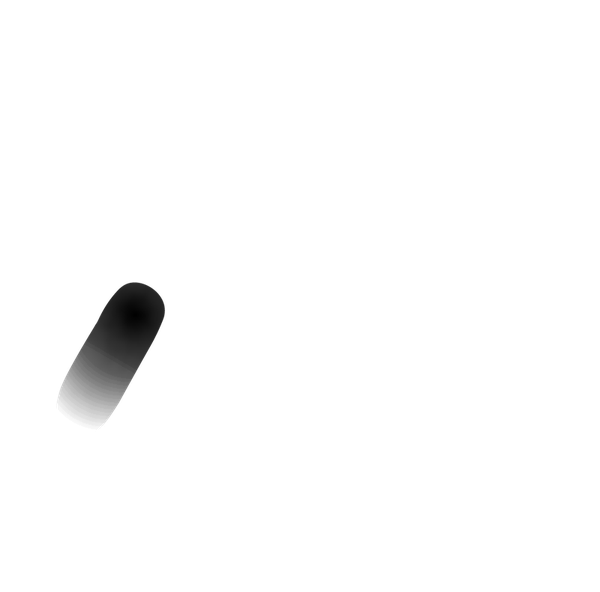
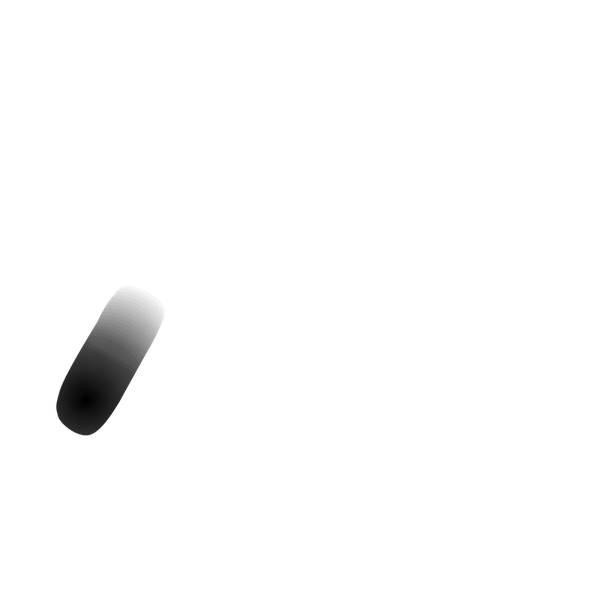
v10:ローダー間合い調整

Changed region(s): [[0.09, 0.4561, 0.3, 0.7601]]

diff --git a/script.js b/script.js
@@ -35,16 +35,16 @@ document.addEventListener("DOMContentLoaded", () => {
     const stage = document.getElementById("loaderMarkStage");
     document.getElementById("loaderMark")?.remove(); // 静止画はSVGに置き換え
     MarukyuLoader.play(stage, { basePath: "images/loader/" }).then(() => {
-      // 紋の定着後に屋号・年号
-      shinedozome?.classList.add("is-visible");
-      setTimeout(() => marukyu?.classList.add("is-visible"), 750);
-      setTimeout(() => year?.classList.add("is-visible"),   1500);
+      // 紋の定着 → ひと呼吸おいて屋号・年号(ゆとりのある展開)
+      setTimeout(() => shinedozome?.classList.add("is-visible"),  500);
+      setTimeout(() => marukyu?.classList.add("is-visible"),     1450);
+      setTimeout(() => year?.classList.add("is-visible"),        2400);
       setTimeout(() => {
-        loader.classList.add("is-hidden");
+        loader.classList.add("is-hidden");   // フェードはCSS側で1.8sの余韻
         document.body.classList.remove("is-loading");
         window.scrollTo({ top: 0, behavior: "instant" });
         startSlider();
-      }, 2450);
+      }, 3800);
     });
   } else {
     startSlider();

diff --git a/js/marukyu-loader.js b/js/marukyu-loader.js
@@ -12,9 +12,9 @@ window.MarukyuLoader = (() => {
   const DEFAULTS = {
     basePath: 'images/loader/',   // tm1.png〜tm8.png の場所
     color:   '#1a1a1a',           // 染料の色
-    speed:   1.0,                 // 再生速度
-    bleed:   12,                  // 滲みの強さ
-    overlap: 0.35,                // 画の重なり(0〜0.7)
+    speed:   0.7,                 // 再生速度(ラボ確定値)
+    bleed:   8,                   // 滲みの強さ(ラボ確定値)
+    overlap: 0.15,                // 画の重なり(ラボ確定値)
     K:       22,                  // 筆先しきい値の柔らかさ
   };
   // 各画の持続時間(ms)。①〜⑦、○の順。

diff --git a/style.css b/style.css
@@ -1261,3 +1261,9 @@ body.no-hero .footer { color: var(--text); }
   .works-gallery { columns: 1; }
 }
 #loaderMarkStage svg { width: 100%; height: 100%; display: block; }
+/* ── Loader 調整: 屋号サイズ控えめ・余韻フェード ── */
+.loader { transition: opacity 1.8s ease, visibility 1.8s ease; }
+.loader-brush { transition: opacity 1.1s ease, transform 1.1s ease; }
+.loader-year  { transition: opacity 1.1s ease, transform 1.1s ease; }
+.loader-shinedozome { height: clamp(20px, 2.4vw, 34px); }
+.loader-marukyu     { height: clamp(23px, 2.8vw, 38px); }